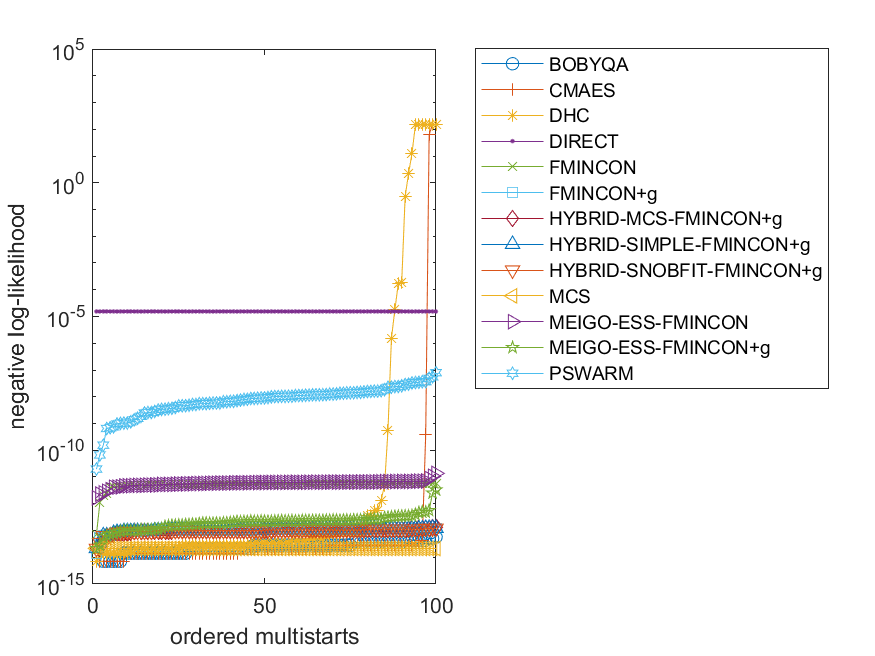
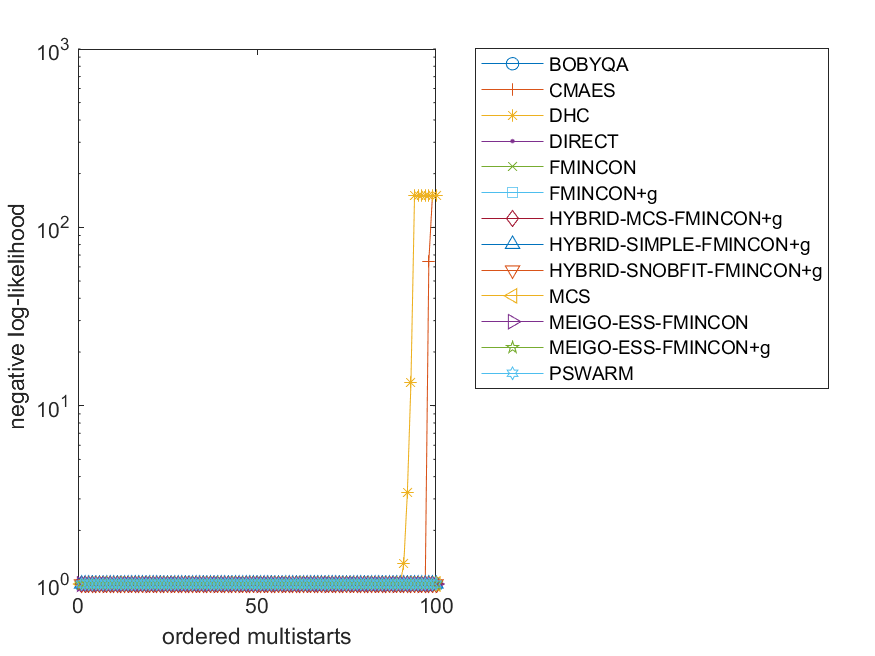
sum->nansum error for images

diff --git a/tests_sysbio/evaluateResults.m b/tests_sysbio/evaluateResults.m
@@ -31,30 +31,28 @@ for ip = 1:nProblems
     maxFunEvals = cell_maxFunEvals{ip};
     nStarts = cell_nStarts{ip};
     
-    map = containers.Map;
-    
     for is = 1:nSolvers
         solver = cell_solvers{is};
         solver_official = cell_solvers_official{is};
         gradient = cell_gradient{is};
         filename = ['res_' problem '/test_' problem '_' solver '_' num2str(maxFunEvals) '_' num2str(nStarts) gradient '.mat'];
+        if strcmp(problem,'mt')
+            print('hu');
+        end
         if exist(filename, 'file')
             load(filename);
-            nllh(ip,is,:) = -parameters_res.MS.logPost;
+            nllh(ip,is,:) = -parameters_res.MS.logPost';
             funEvals(ip,is,:) = parameters_res.MS.n_objfun;
             bestFoundFval(ip) = min([-parameters_res.MS.logPost(:);bestFoundFval(ip)]);
         end
     end
-    
-    cell_keys = keys(map);
-    nKeys = length(cell_keys);
     
     % waterfall plot
     fig = figure('name',['waterfall-' problem]);
     for is = 1:nSolvers
         tmp_y(:) = nllh(ip,is,:);
         
-        semilogy(1:nStarts,tmp_y'-bestFoundFval(ip),[markers{is} '-'],'DisplayName', cell_solvers_official{is});
+        semilogy(1:nStarts,tmp_y'-bestFoundFval(ip)+1,[markers{is} '-'],'DisplayName', cell_solvers_official{is});
         hold on;
     end
     hold off;
@@ -69,7 +67,7 @@ convergedStarts = zeros(nProblems,nSolvers);
 funEvalsPerConvergedStart = inf(nProblems,nSolvers);
 for ip = 1:nProblems
      for is = 1:nSolvers
-         tmp_totalFunEvals = sum(funEvals(ip,is,:));
+         tmp_totalFunEvals = nansum(funEvals(ip,is,:));
          tmp_convergedStarts = sum(nllh(ip,is,:) < bestFoundFval(ip) + 0.5);
          convergedStarts(ip,is) = tmp_convergedStarts / nStarts;
          funEvalsPerConvergedStart(ip,is) = tmp_totalFunEvals / tmp_convergedStarts; % / (cell_nPar{ip}*cell_maxFunEvals{ip});
